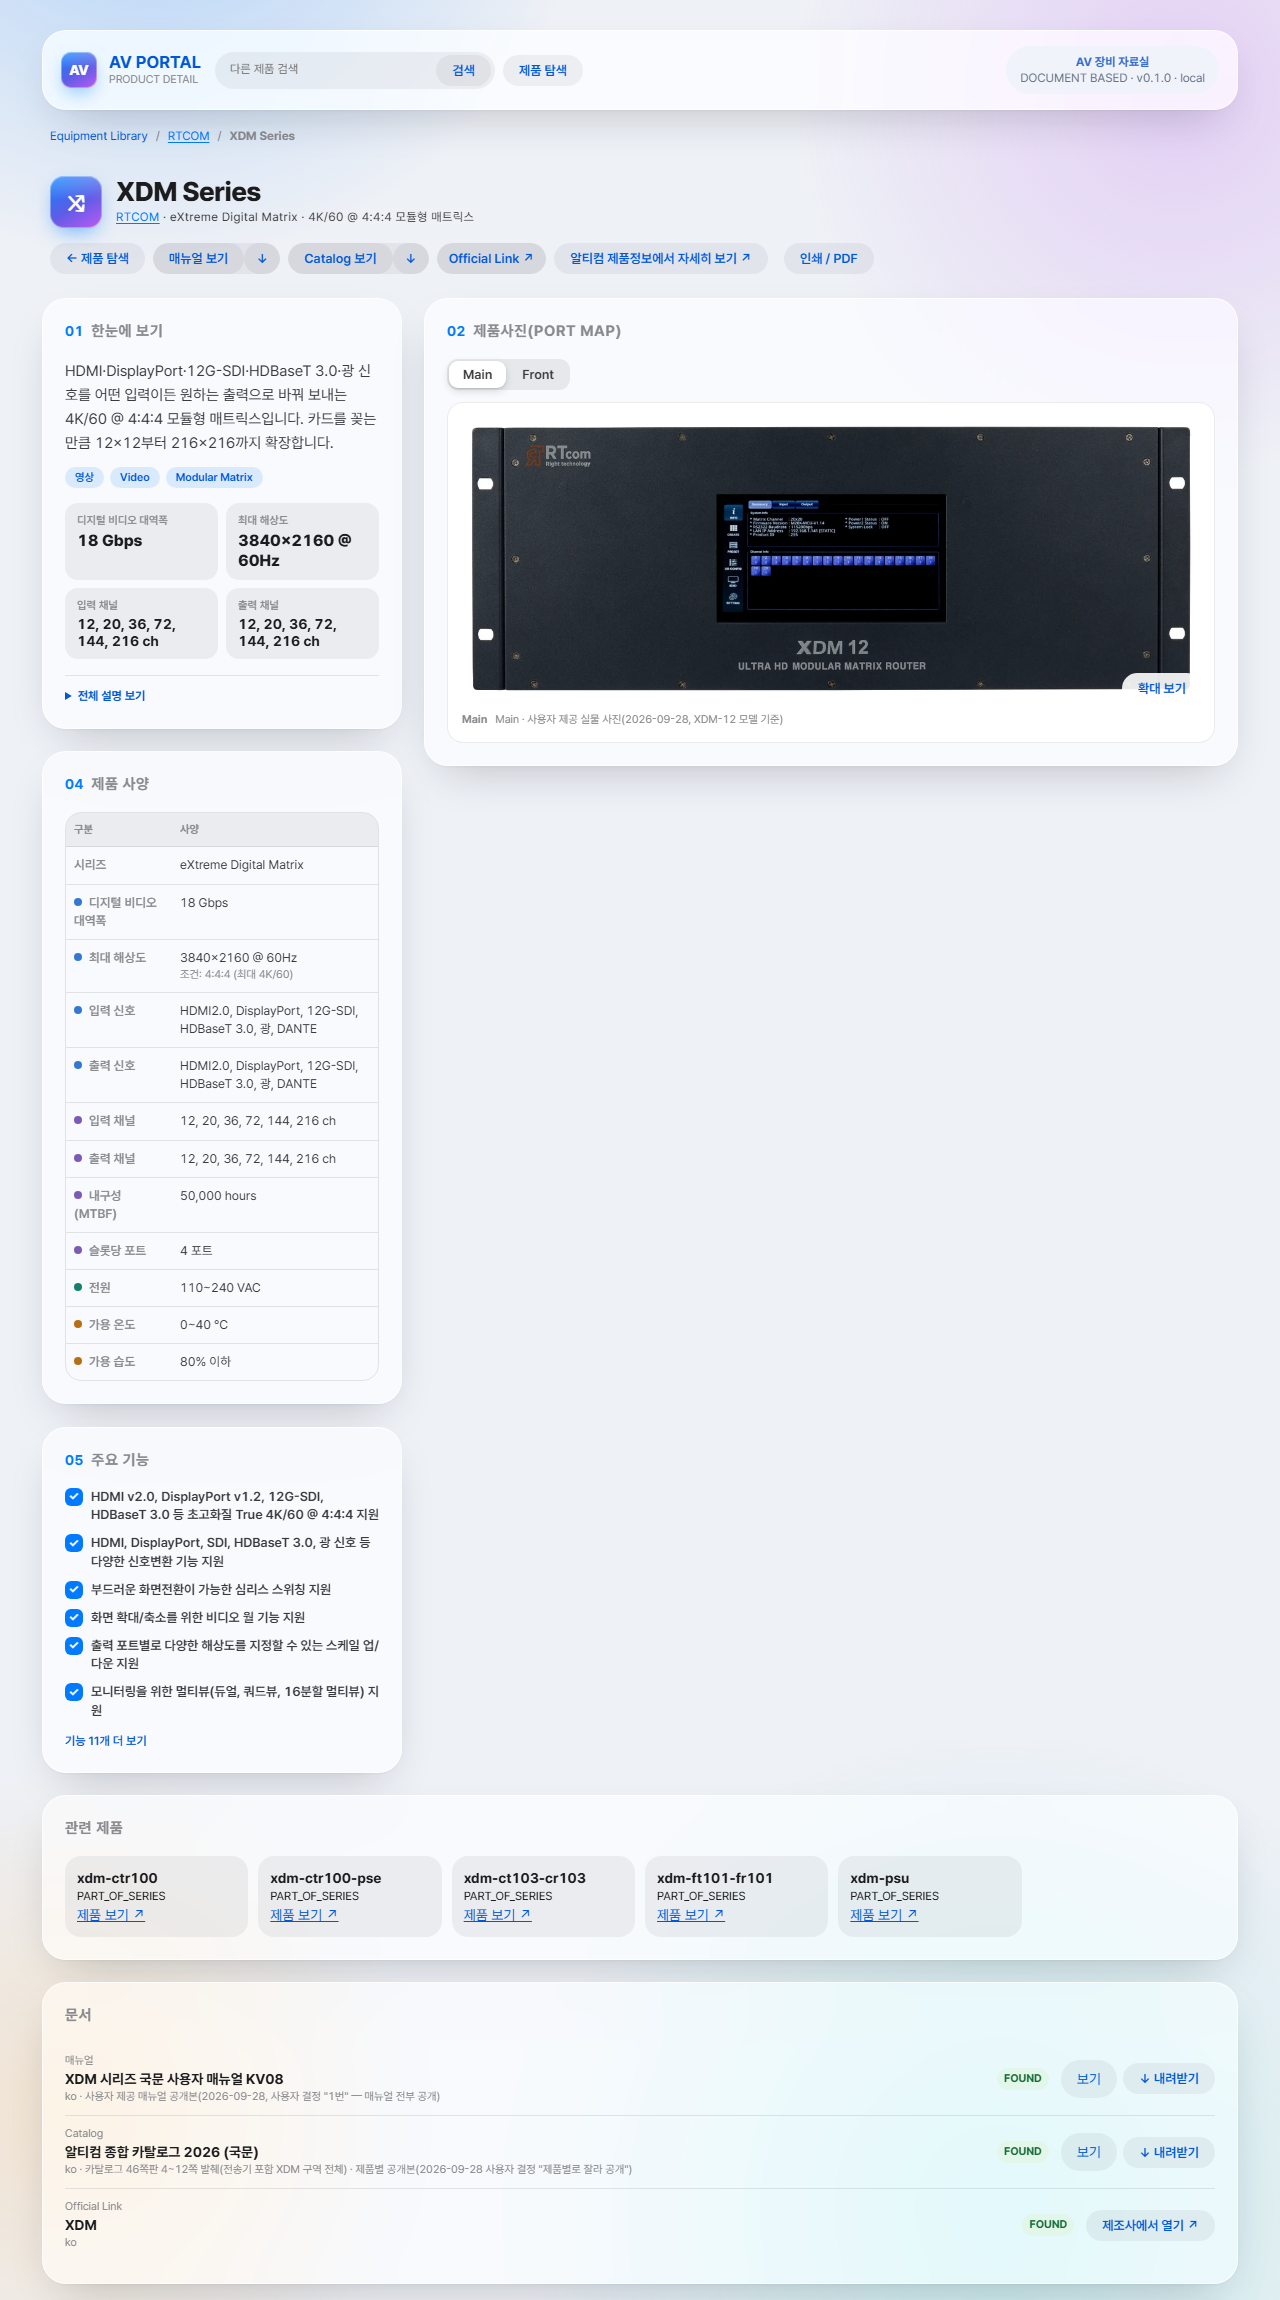
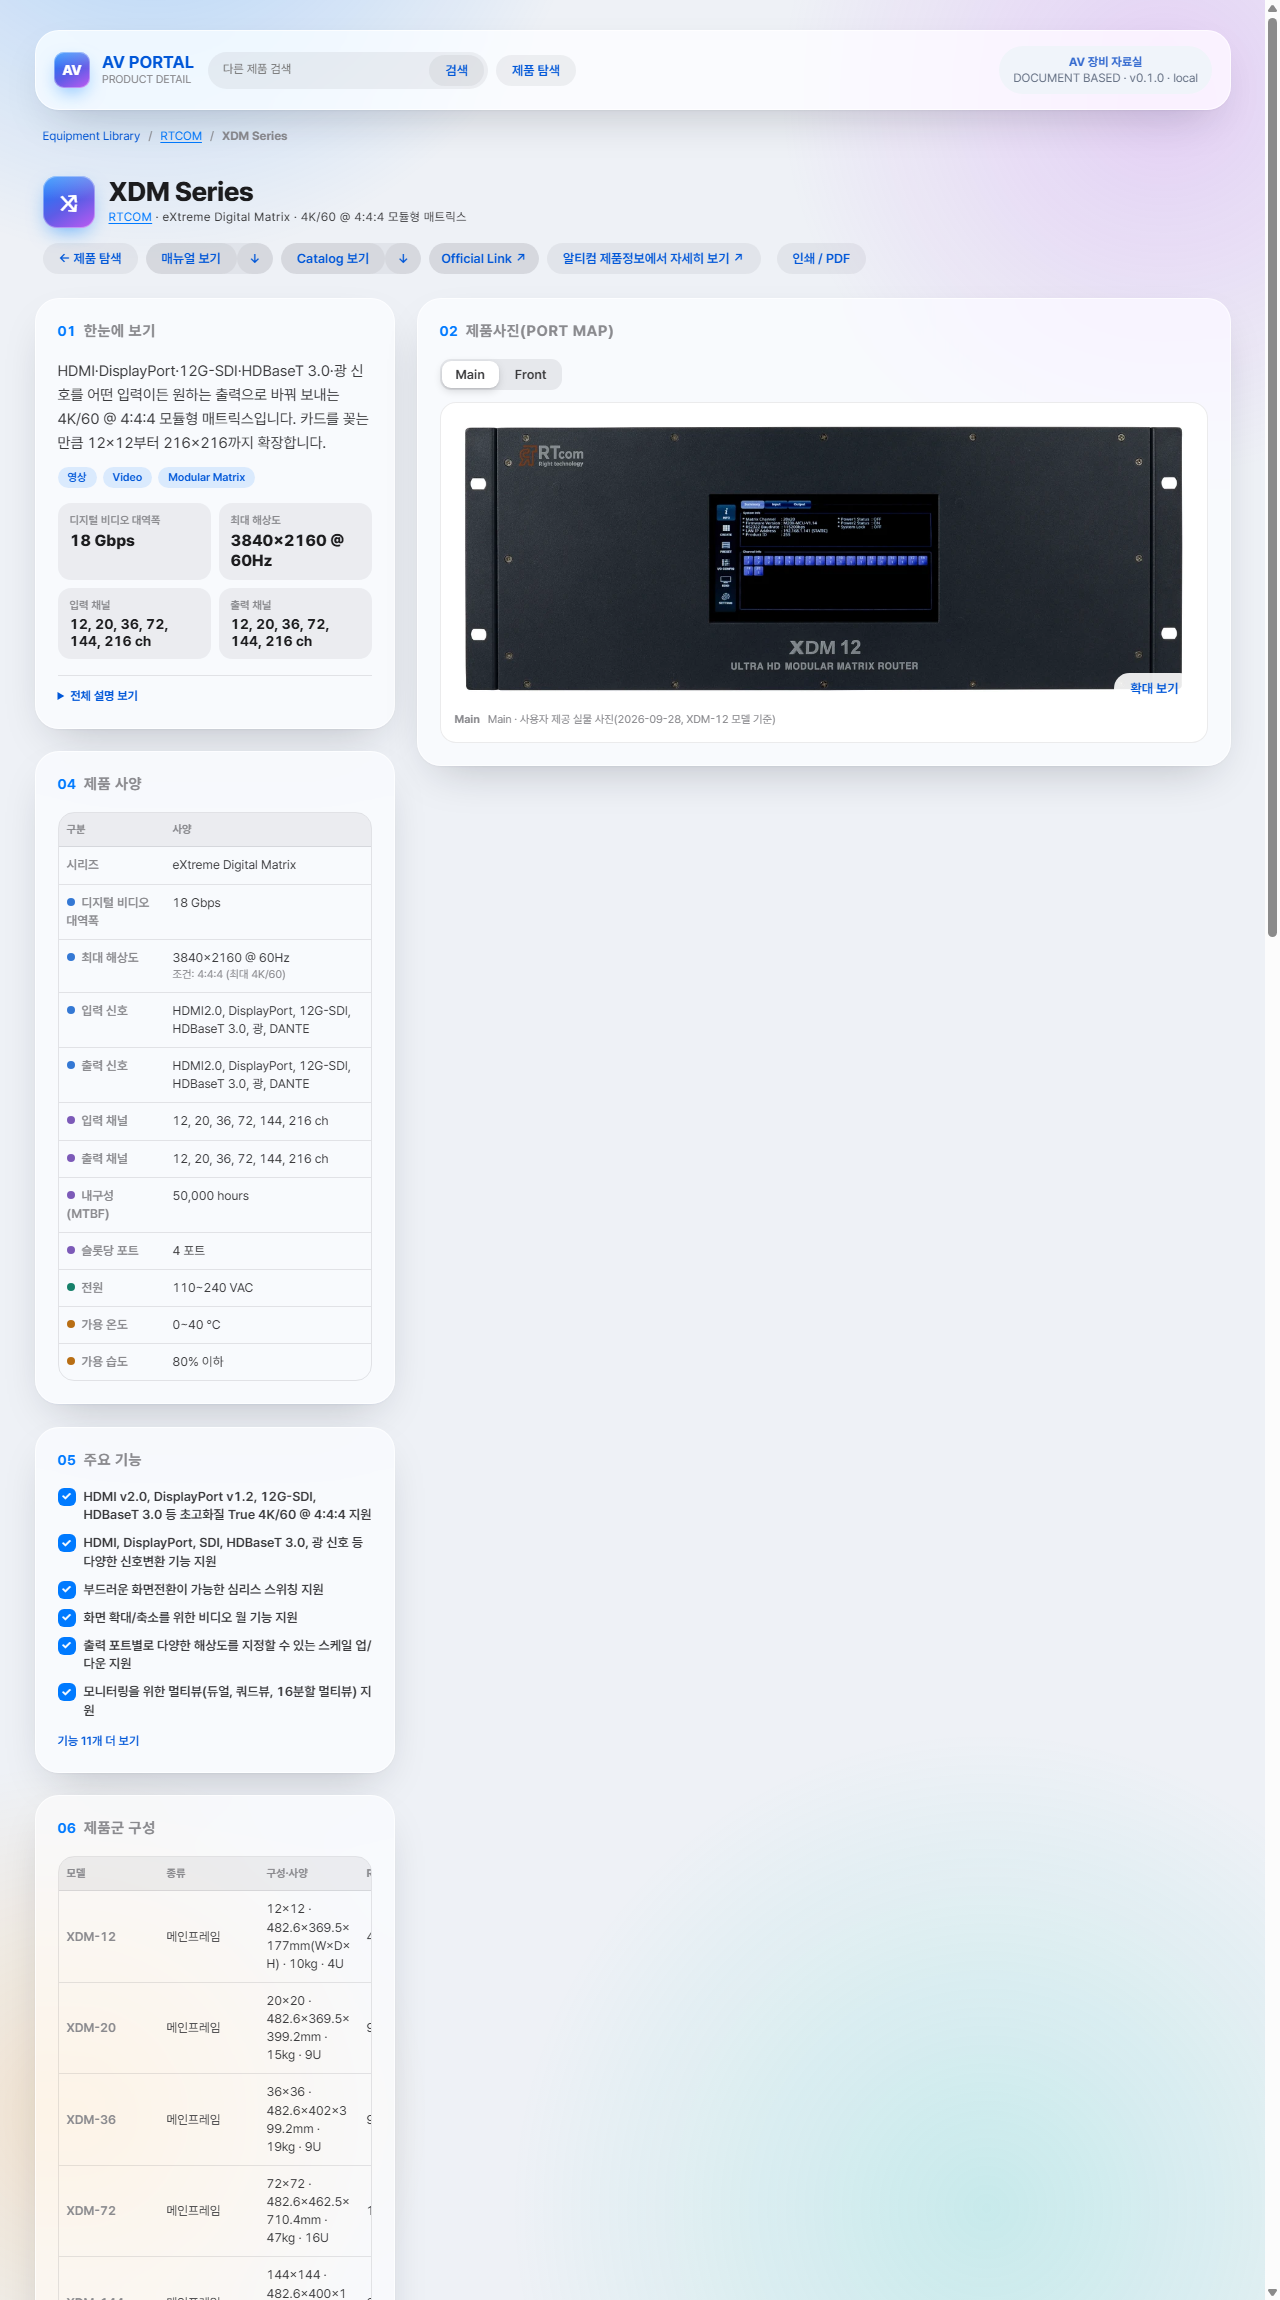
Keep RTCOM series lineup visible when RU is unspecified
A blank RU cell invalidated the whole settings table. Render an explicit missing-value dash and validate all 32 adapted products against the visible detail contract.

diff --git a/Work/지시서.md b/Work/지시서.md
@@ -7,7 +7,7 @@ W-20261012-015 **REVIEW**. [READY 명세](작업/W-20261012-015.md)를 `origin/m
 
 - [x] 원본 32종의 지도 36개(25종)를 원본 이미지 파일과 결합했다. 원본의 기본 위쪽 마커 방향을 포털에 맞춰 명시하고 QMS-88UX의 번호 위치를 원본 화면과 비교했다.
 - [x] QMS-88UX의 비디오 모드·오디오 출력 경로와 원본 공식 링크, XDM·SPX·VDM의 메인프레임/카드 라인업을 보조 섹션에 연결했다. XDM 제품정보와 슬롯 구성기 링크는 유지했다.
-- [x] 32종 브라우저 점검에서 원본 지도 36개와 포털 36개의 마커 수를 대조했다. QMS-88UX·XDM 원본/포털 1280px 캡처를 `Work/기록/`에 남겼다. 새 전용 검사 5/5, 전체 순차 검사 516건 중 515 pass·0 fail·기존 skip 1, RTCOM 사본 32/32, Pages 검증 274장비·271상세·453 WebP·130 uploads, 검색 인덱스 검사를 통과했다. 잠긴 PDF 파일은 변경하지 않았다.
+- [x] 32종 브라우저 점검에서 원본 지도 36개와 포털 36개의 마커 수를 대조했다. QMS-88UX·XDM 원본/포털 1280px 캡처를 `Work/기록/`에 남겼다. 새 전용 검사 5/5, 전체 순차 검사 519건 중 518 pass·0 fail·기존 skip 1, RTCOM 사본 32/32, Pages 검증 274장비·271상세·453 WebP·130 uploads, 검색 인덱스 검사를 통과했다. 잠긴 PDF 12건은 암호 해제 없이 유지됨을 검사했다. Chrome DOM 재검사에서 XDM 라인업의 RU 미기재 빈 셀 때문에 표가 숨는 문제를 발견해 `—`로 표기하고, 32종 유효성 검사를 강화했다.
 - [ ] 최신 main 통합 뒤 파생 산출물 재생성·최종 검증, PR 병합·Pages 배포·공개 확인을 마친다.
 
 W-20261012-011 **IN_PROGRESS**. [READY 명세](작업/W-20261012-011.md)를 `origin/main` `e9a375f`에서 읽고 `codex/W-20261012-011-ds8s`를 시작했다. 사용자 제공 DS-8S 리플렛·추가 PDF의 모델 적용 범위를 확인해 VS ENT 첫 제품을 등록한다. 사용자 승인에 따라 제조사 공식 사이트의 HTTP 전용 DS-8S 페이지는 해당 제품의 정확한 주소에 한정해 링크 예외를 둔다. AC 출력 2200W/2500W 원문 불일치는 `CONFLICTED`로 병기하고, 별도 원본 사양서는 로컬 근거로만 사용한다.
